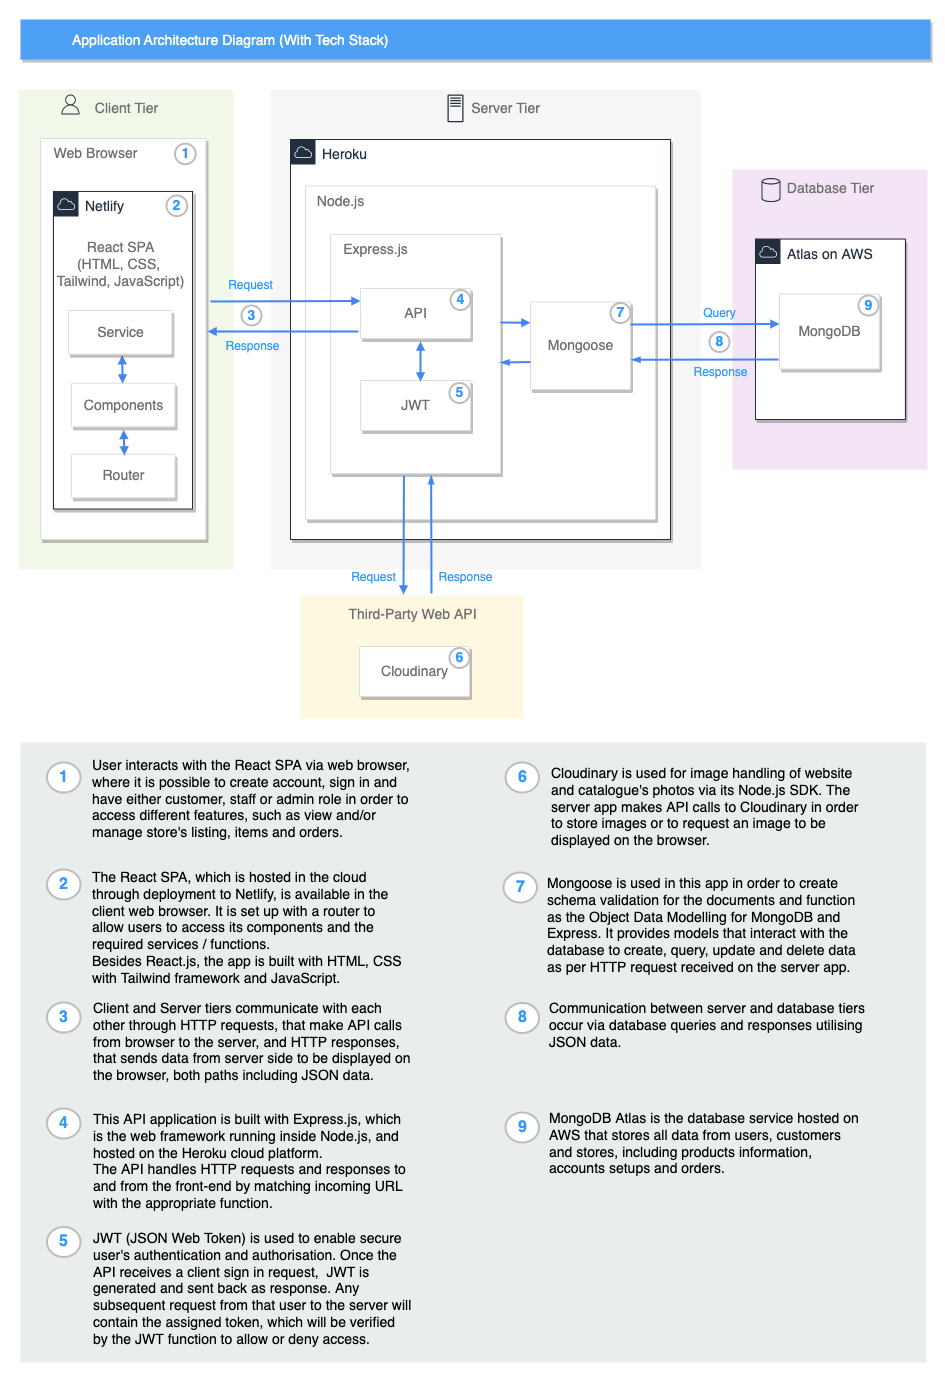
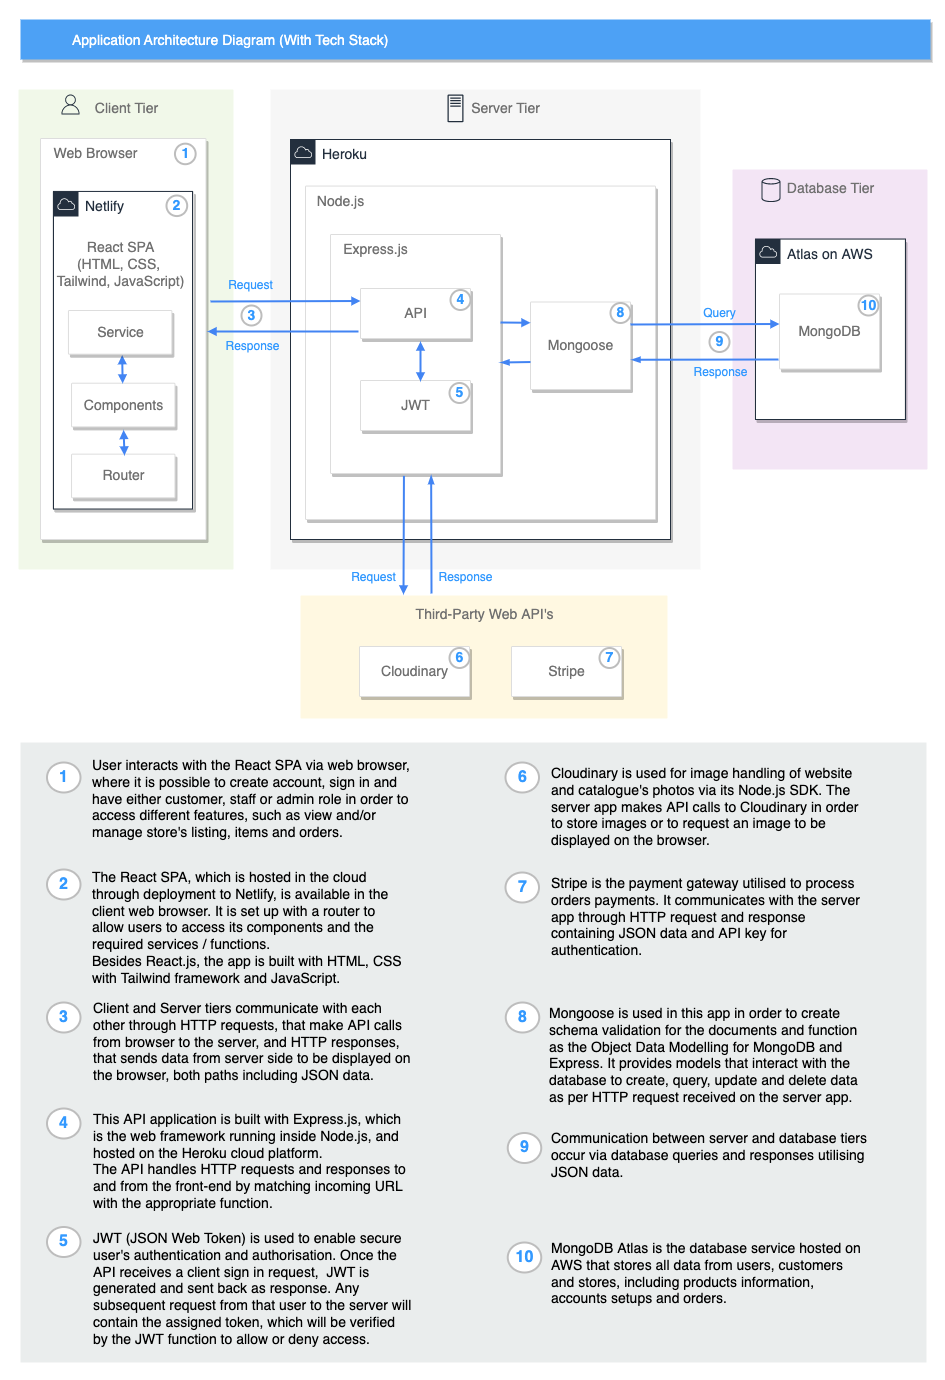
add payment feature

Changed region(s): [[0.5217, 0.6232, 0.9206, 0.8725], [0.3683, 0.4051, 0.7058, 0.5297], [0.5524, 0.9036, 0.8899, 0.9659]]

diff --git a/README.md b/README.md
@@ -4,45 +4,22 @@
 ## Desperate Housewares App
 <!-- omit in toc -->
 ### Table of Contents
-- [Problem Identified](#problem-identified)
-- [Purpose](#purpose)
-- [Target Audience](#target-audience)
-- [User Stories](#user-stories)
-  - [Customers (users and shoppers):](#customers-users-and-shoppers)
-  - [Administrator:](#administrator)
-  - [Staff member:](#staff-member)
-  - [Non-MVP User Stories:](#non-mvp-user-stories)
-- [Features](#features)
-- [Tech Stack](#tech-stack)
-- [Dataflow Diagram](#dataflow-diagram)
-- [Application Architecture Diagram](#application-architecture-diagram)
-- [**Wire frames**](#wire-frames)
-  - [**Homepage Design:**](#homepage-design)
-    - [Homepage Phone View](#homepage-phone-view)
-    - [Homepage Tablet View](#homepage-tablet-view)
-    - [Homepage Desktop View](#homepage-desktop-view)
-  - [**Held Listings Page Design:**](#held-listings-page-design)
-    - [Held Listings Phone View](#held-listings-phone-view)
-    - [Held Listings Tablet View](#held-listings-tablet-view)
-    - [Held Listings Desktop View](#held-listings-desktop-view)
-  - [**Admin Dashboard Page Design:**](#admin-dashboard-page-design)
-    - [Admin Dashboard Phone View](#admin-dashboard-phone-view)
-    - [Admin Dashboard Tablet View](#admin-dashboard-tablet-view)
-    - [Admin Dashboard Desktop View](#admin-dashboard-desktop-view)
-  - [**Modal Designs**](#modal-designs)
-    - [Add Staff Modal](#add-staff-modal)
-    - [Change Password Modal](#change-password-modal)
-    - [Delete Account Modal](#delete-account-modal)
-    - [Manage Account Modal](#manage-account-modal)
-    - [Manage Listing Modal](#manage-listing-modal)
-    - [Sign In Modal](#sign-in-modal)
-    - [Sign Up Modal](#sign-up-modal)
-  - [**Menus Design:**](#menus-design)
-    - [Hamburger Menu](#hamburger-menu)
-    - [Settings Menu](#settings-menu)
-    - [Shopping Cart Menu](#shopping-cart-menu)
-- [Trello Board Progress](#trello-board-progress)
-- [References](#references)
+1. [Problem Identified](#problem-identified)
+2. [Purpose](#purpose)
+3. [Target Audience](#target-audience)
+4. [User Stories](#user-stories)
+5. [Features](#features)
+6. [Tech Stack](#tech-stack)
+7. [Dataflow Diagram](#dataflow-diagram)
+8. [Application Architecture Diagram](#application-architecture-diagram)
+9. [Wireframes](#wire-frames)
+   1. [Homepage Design](#homepage-design)
+   2. [Held Listings Page Design](#held-listings-page-design)
+   3. [Admin Dashboard Page Design](#admin-dashboard-page-design)
+   4. [Modal Designs](#modal-designs)
+   5. [Menus Design](#menus-design)
+10. [Trello Board Progress](#trello-board-progress)
+11. [References](#references)
 
 ### Problem Identified
 
@@ -59,7 +36,7 @@ This web application has the main purpose of giving a better market visibility t
 
 ### User Stories
 
-#### Customers (users and shoppers): 
+#### Customers (users and shoppers)
 
 * As a user, I want to be able to view a store's list of products or catalogue so that I can find an item.
 
@@ -72,6 +49,8 @@ This web application has the main purpose of giving a better market visibility t
 * As a user, I want to be able to update my account so that changes in my details are current.
 
 * As a user, I should be able to log into my account so that I can use the website as desired.
+  
+* As a shopper, I want to be able to place a product on hold at the store so that I can go in and pay/pick it up.
 
 * As a shopper, I want to be able to view listings I have placed on hold so that I can manage them. 
 
@@ -83,7 +62,7 @@ This web application has the main purpose of giving a better market visibility t
 
 * As a shopper, I want a confirmation email for the product so that I know all the details.
 
-#### Administrator:
+#### Administrator
 
 * As an administrator, I want to be able to add a user to a store as staff so that they can post product listings in the store's catalogue. 
 
@@ -91,7 +70,7 @@ This web application has the main purpose of giving a better market visibility t
 
 * As an administrator, I want to be able to remove staff from the store because they no longer work there. 
 
-#### Staff member:
+#### Staff member
 
 * As a staff member, I want to be able to add products to a store's catalogue so that shoppers can place an order on them.
 
@@ -101,7 +80,7 @@ This web application has the main purpose of giving a better market visibility t
 
 * As a staff member, I want to be able to update a products listing so that changes can be added/removed from the listing.
 
-#### Non-MVP User Stories: 
+#### Non-MVP User Stories
 
 * As a user, I want to be able to view a list of stores so that I can find a store close to me. 
 
@@ -124,12 +103,14 @@ This web application has the main purpose of giving a better market visibility t
 * User sign up with allocation of roles
 * User authentication and authorisation via JWT and Bcrypt
 * Display store catalogue items to all users
+* Image handling and optimisation via Cloudinary Node SDK
 * Features exclusive to store employees:
   * Add, edit and delete listing items
   * Add and delete staff members (admin only)
   * View list of items put on hold by shoppers
 * Features exclusive to shoppers:
   * Add items into shopping bag for pick up at store
+  * Order payment via Stripe
 
 ### Tech Stack
 
@@ -175,7 +156,7 @@ Mongoose is an object modelling library for node.js that enables schema-based mo
 
 [**Jest**](https://jestjs.io/)
 
-is a javascript testing framework that will be implemented for our unit testing.
+Jest is a javascript testing framework that will be implemented for our unit testing.
 
 [**Git**](https://git-scm.com/)
 
@@ -205,9 +186,10 @@ The manager/admin DFD shows that they are the only ones with access to the admin
 
 
 ### Application Architecture Diagram
+
 ![Application Architecture Diagram](assets/AAD.png)
 
-### **Wire frames**
+### Wireframes
 
 <details open>
 <summary> General Design Choices </summary>
@@ -235,7 +217,7 @@ A deeper discussion that outlines design choices such as but not limited to spac
 </details>
 </details>
 
-#### **Homepage Design:**
+#### Homepage Design
 
 <details open>
 <summary> Homepage Wireframes </summary>
@@ -274,7 +256,7 @@ Additional design considerations that improve the user experience and build upon
 
 </details>
 
-#### **Held Listings Page Design:**
+#### Held Listings Page Design
 
 <details open>
 <summary>Held Listings Page Wire-frames</summary>
@@ -309,7 +291,7 @@ Initially the design included a table that documented the holdings in a similar 
 
 </details>
 
-#### **Admin Dashboard Page Design:**
+#### Admin Dashboard Page Design
 
 <details open>
 <summary>Admin Dashboard Page Wire-frames</summary>
@@ -332,7 +314,7 @@ The Admin Dashboard page is used by an administer to add new staff to the store 
  
 </details>
 
-#### **Modal Designs**
+#### Modal Designs
 
 <details open>
 <summary>Modal Wireframes</summary>
@@ -417,7 +399,7 @@ The design of these modals makes responsiveness easy to optimize for mobile scre
 
 </details>
 
-#### **Menus Design:**
+#### Menus Design
 
 <details open>
 <summary>Menu Wireframes</summary>
